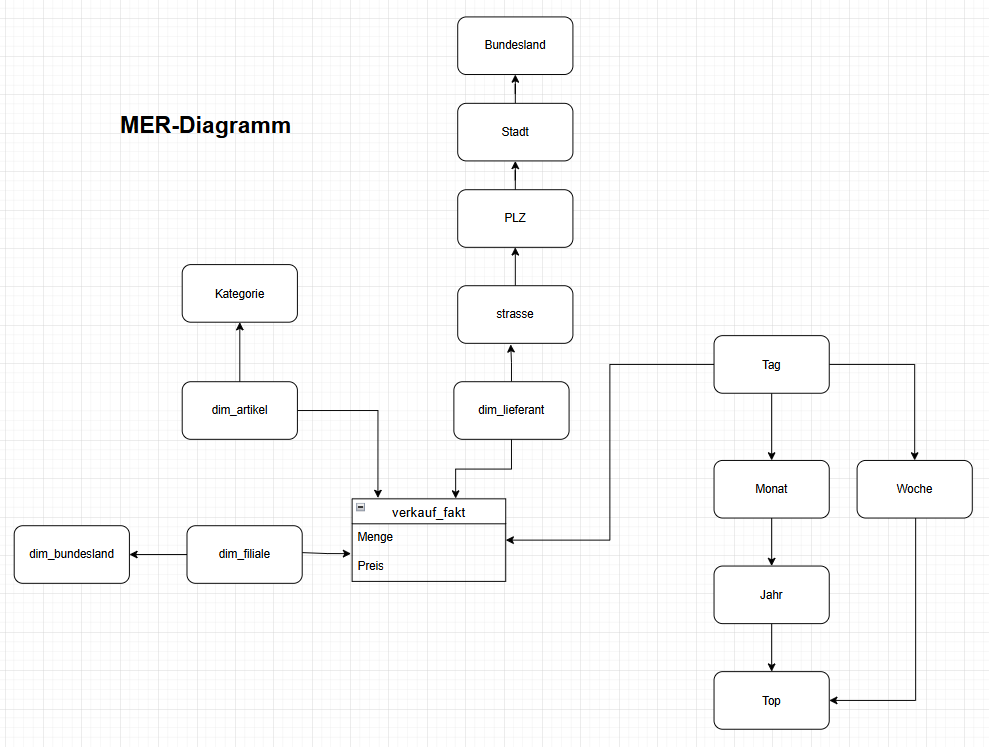
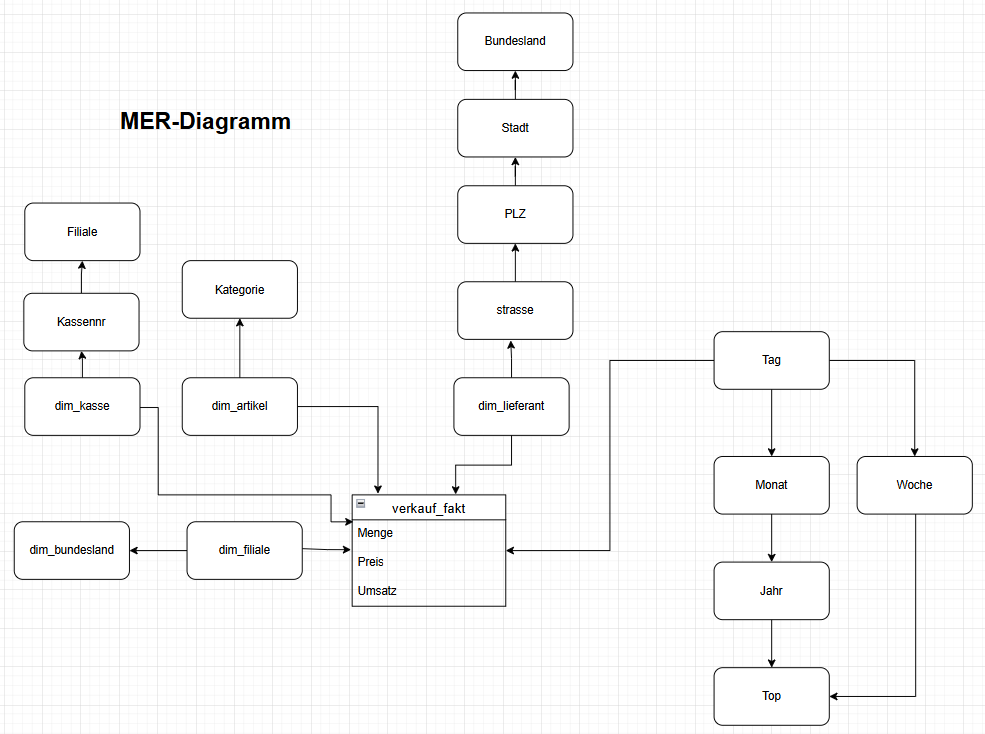
Update Fakt

diff --git a/scripts/etl_transfer-update.py b/scripts/etl_transfer-update.py
@@ -130,6 +130,31 @@ def update_dim_filiale_scd2(src_cur, dwh_cur):
             unchanged += 1
     logging.info(f"dim_filiale: {added} neue, {updated} geänderte, {unchanged} unveränderte Datensätze verarbeitet.")
 
+def update_fakt_verkauf(src_cur, dwh_cur, get_id_datum):
+    src_cur.execute("""
+        SELECT 
+            v.id_verkauf, v.id_kasse, v.id_artikel, v.menge, v.preis, 
+            v.preis * v.menge AS umsatz, v.datum_utc, v.datum_local, k.id_filiale
+        FROM verkauft v
+        JOIN kasse k ON v.id_kasse = k.id_kasse
+    """)
+    for row in src_cur.fetchall():
+        datum = row[7].date()
+        id_datum = get_id_datum(datum, dwh_cur)
+        dwh_cur.execute("""
+            INSERT INTO fakt_verkauf (
+                id_verkauf, id_datum, id_kasse, id_filiale, id_artikel, preis, menge, umsatz, Datum_UTC, Datum_Lokal
+            ) VALUES (%s, %s, %s, %s, %s, %s, %s, %s, %s, %s)
+            ON CONFLICT DO NOTHING
+        """, (
+            row[0], id_datum, row[1], row[8], row[2], row[4], row[3], row[5], row[6], row[7]
+        ))
+
+def get_id_datum(datum, cur):
+    cur.execute("SELECT id_datum FROM dim_datum WHERE datum = %s", (datum,))
+    res = cur.fetchone()
+    return res[0] if res else None
+
 def main():
     # Load .env file
     dotenv_path = os.path.join(os.path.dirname(__file__), "..", ".env")
@@ -160,6 +185,7 @@ def main():
     update_dim_artikel_scd2(src_cur, dwh_cur)
     update_dim_filiale_scd2(src_cur, dwh_cur)
     update_dim_scd2(src_cur, dwh_cur, "kasse", "dim_kasse", "id_kasse", ["kassennr", "id_filiale"])
+    update_fakt_verkauf(src_cur, dwh_cur, get_id_datum)
 
     dwh_conn.commit()
     src_cur.close()
